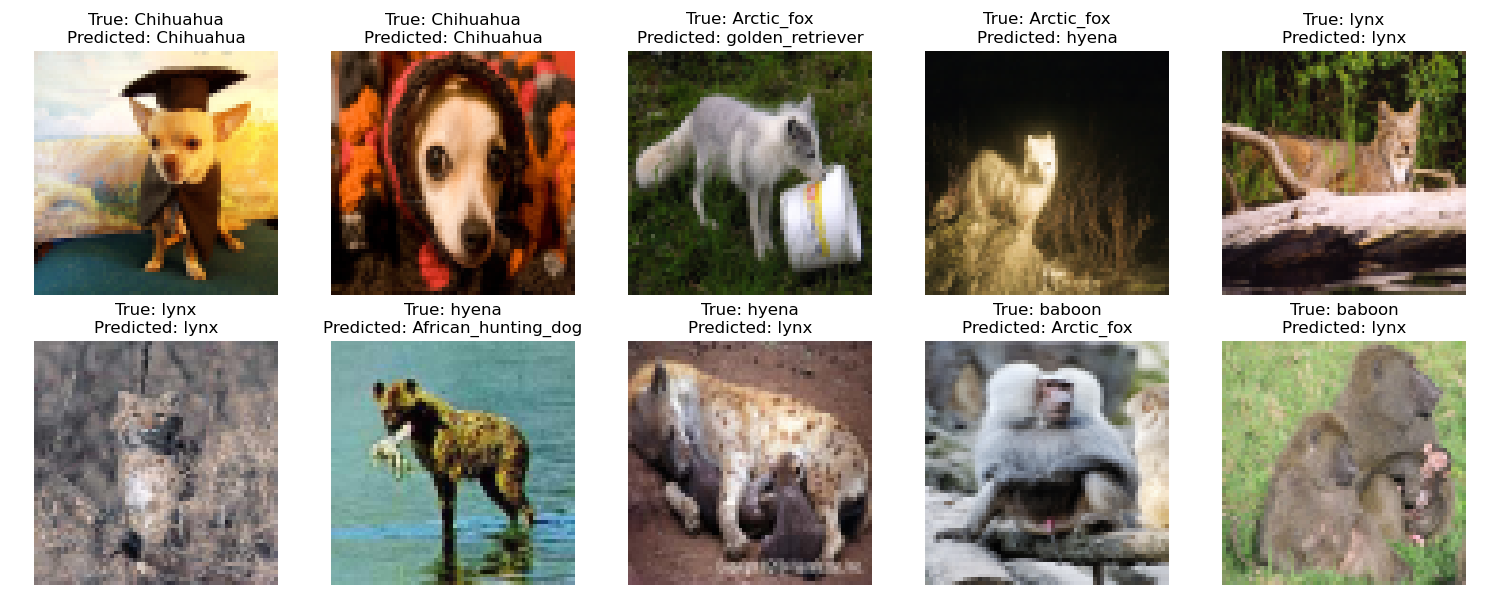
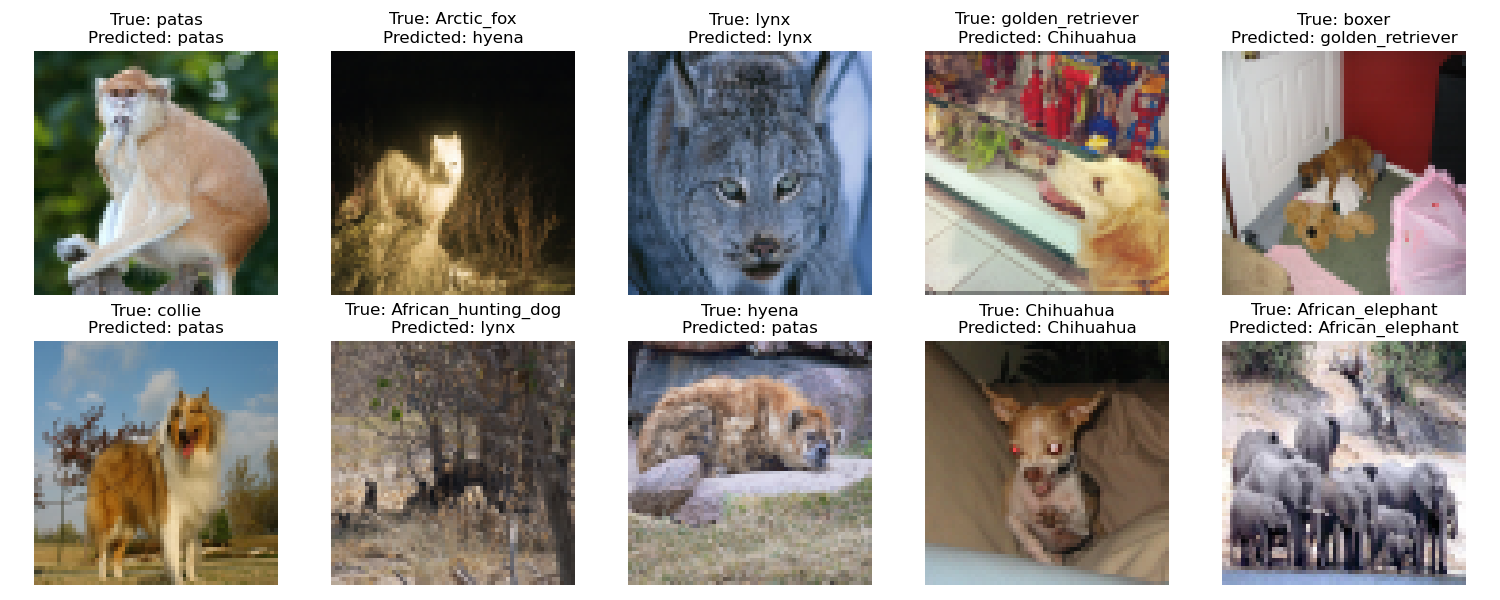
feat: randomly select 10 classes for both task a and task b

diff --git a/evaluate_task_b.py b/evaluate_task_b.py
@@ -216,6 +216,9 @@ def evaluate_model(model, test_loader, device):
     
     # Save samples for visualization
     test_samples = []
+    
+    # First pass to collect all available classes and samples
+    all_class_samples = {}
     samples_per_class = {}
     
     # Use no_grad for inference
@@ -231,33 +234,47 @@ def evaluate_model(model, test_loader, device):
             total += labels.size(0)
             correct += (predicted == labels).sum().item()
             
-            # Update per-class accuracy
+            # Update per-class accuracy and collect samples by class
             for j in range(labels.size(0)):
                 label = labels[j].item()
                 if label not in class_correct:
                     class_correct[label] = 0
                     class_total[label] = 0
                     samples_per_class[label] = 0
+                    all_class_samples[label] = []
                 
                 class_total[label] += 1
                 if predicted[j] == label:
                     class_correct[label] += 1
                 
-                # Collect diverse samples (at most 2 per class)
-                if len(test_samples) < 10 and samples_per_class.get(label, 0) < 2:
-                    # Get the index of this sample in the dataset
-                    batch_idx = i * test_loader.batch_size + j
-                    if batch_idx < len(test_loader.original_data):
-                        # Get the original image data (not normalized)
-                        original_img = test_loader.original_data[batch_idx].cpu()
-                        
-                        test_samples.append((
-                            original_img,  # Use original image for visualization
-                            labels[j].item(),
-                            predicted[j].item(),
-                            gates[j].cpu()
-                        ))
-                        samples_per_class[label] = samples_per_class.get(label, 0) + 1
+                # Get the index of this sample in the dataset
+                batch_idx = i * test_loader.batch_size + j
+                if batch_idx < len(test_loader.original_data):
+                    # Get the original image data (not normalized)
+                    original_img = test_loader.original_data[batch_idx].cpu()
+                    
+                    # Store this sample for potential selection
+                    all_class_samples[label].append((
+                        original_img,  # Use original image for visualization
+                        label,
+                        predicted[j].item(),
+                        gates[j].cpu()
+                    ))
+    
+    # Now randomly select 10 classes (or fewer if there aren't 10 available)
+    import random
+    available_classes = list(all_class_samples.keys())
+    num_classes_to_select = min(10, len(available_classes))
+    selected_classes = random.sample(available_classes, num_classes_to_select)
+    
+    print(f"\nRandomly selected {num_classes_to_select} classes for visualization")
+    
+    # For each selected class, choose one random sample
+    for class_label in selected_classes:
+        if all_class_samples[class_label]:
+            # Randomly select one sample from this class
+            selected_sample = random.choice(all_class_samples[class_label])
+            test_samples.append(selected_sample)
     
     # Calculate overall accuracy
     accuracy = 100 * correct / total

diff --git a/evaluate_task_a.py b/evaluate_task_a.py
@@ -162,6 +162,9 @@ def evaluate_model(model, test_loader, device):
     # Save samples for visualization
     test_samples = []
     
+    # First pass to collect all available classes and samples
+    all_class_samples = {}
+    
     # Use no_grad for inference
     with torch.no_grad():
         for i, (inputs, labels) in enumerate(tqdm(test_loader, desc="Evaluating")):
@@ -175,27 +178,40 @@ def evaluate_model(model, test_loader, device):
             total += labels.size(0)
             correct += (predicted == labels).sum().item()
             
-            # Update per-class accuracy
+            # Update per-class accuracy and collect samples by class
             for j in range(labels.size(0)):
                 label = labels[j].item()
                 if label not in class_correct:
                     class_correct[label] = 0
                     class_total[label] = 0
+                    all_class_samples[label] = []
                 
                 class_total[label] += 1
                 if predicted[j] == label:
                     class_correct[label] += 1
-            
-            # Save first 10 samples from each batch if we need more
-            if len(test_samples) < 10:
-                for j in range(min(10, labels.size(0))):
-                    if len(test_samples) < 10:
-                        test_samples.append((
-                            inputs[j].cpu(),
-                            labels[j].item(),
-                            predicted[j].item(),
-                            gates[j].cpu()
-                        ))
+                
+                # Store this sample for potential selection
+                all_class_samples[label].append((
+                    inputs[j].cpu(),
+                    label,
+                    predicted[j].item(),
+                    gates[j].cpu()
+                ))
+    
+    # Now randomly select 10 classes (or fewer if there aren't 10 available)
+    import random
+    available_classes = list(all_class_samples.keys())
+    num_classes_to_select = min(10, len(available_classes))
+    selected_classes = random.sample(available_classes, num_classes_to_select)
+    
+    print(f"\nRandomly selected {num_classes_to_select} classes for visualization")
+    
+    # For each selected class, choose one random sample
+    for class_label in selected_classes:
+        if all_class_samples[class_label]:
+            # Randomly select one sample from this class
+            selected_sample = random.choice(all_class_samples[class_label])
+            test_samples.append(selected_sample)
     
     # Calculate overall accuracy
     accuracy = 100 * correct / total
